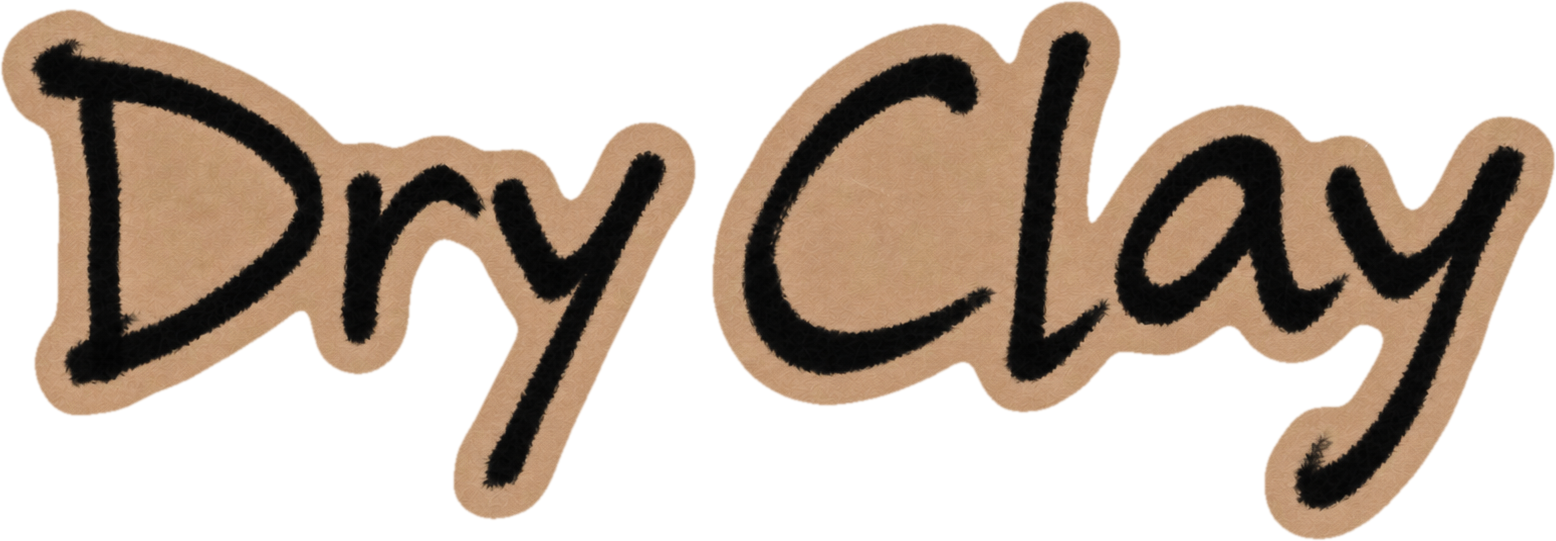
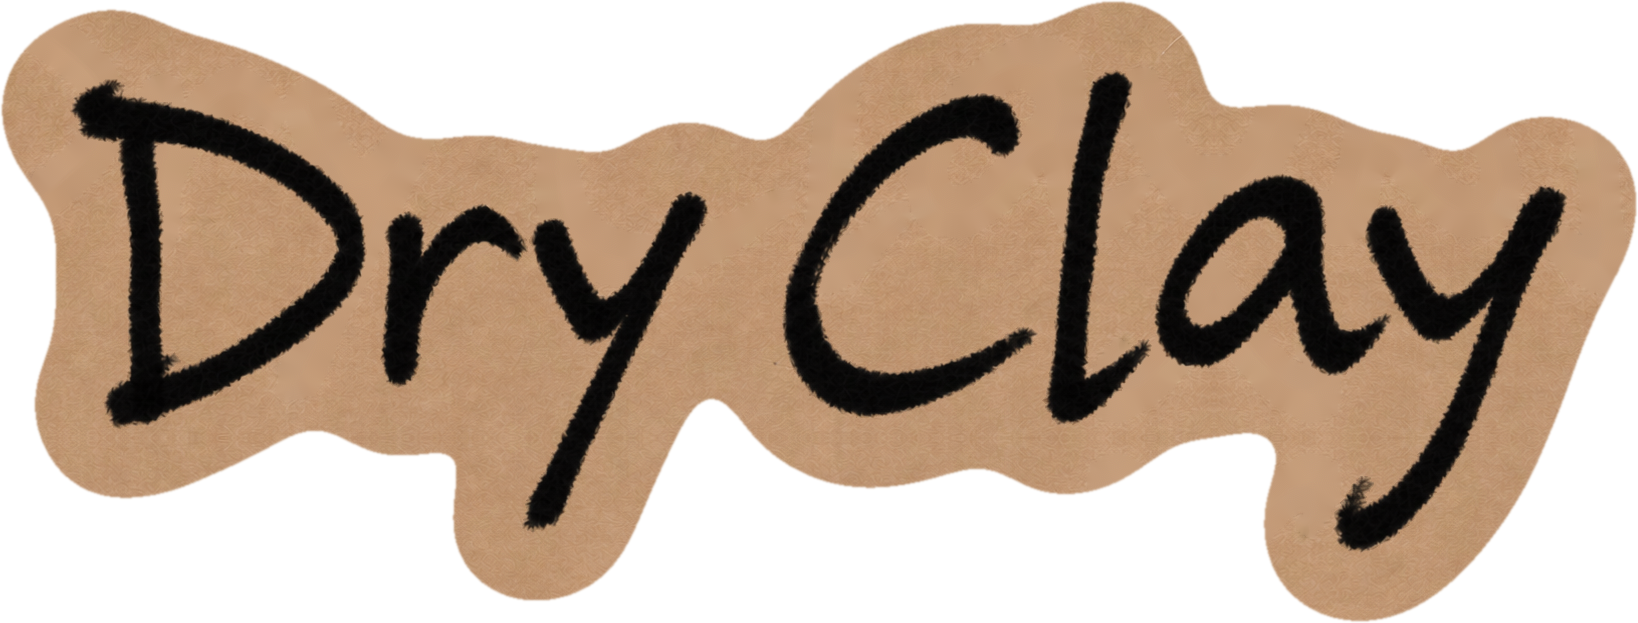
Thicker backing on R1 rank lettering

diff --git a/Dev/BBGLDev.js b/Dev/BBGLDev.js
@@ -18235,7 +18235,7 @@ const RANK_EMBLEM_SIZE = {
     'T3R6-Fully-Bricked': [500, 294]
 };
 const RANK_TEXT_SIZE = {
-    'T1R1-Dry-Clay': [186, 70], 'T2R1-Parched-Clay': [209, 62], 'T3R1-Cracked-Clay': [253, 72],
+    'T1R1-Dry-Clay': [195, 79], 'T2R1-Parched-Clay': [217, 70], 'T3R1-Cracked-Clay': [263, 82],
     'T1R2-Moistened-Clay': [208, 101], 'T2R2-Saturated-Clay': [202, 100], 'T3R2-Dripping-Wet-Clay': [188, 99],
     'T1R3-Hand-Stroked-Clay': [312, 110], 'T2R3-Foot-Pumped-Clay': [311, 112], 'T3R3-Vacuum-Sucked-Clay': [340, 112],
     'T1R4-Pit-Fired-Clay': [149, 100], 'T2R4-Scove-Fired-Clay': [197, 100], 'T3R4-Kiln-Fired-Clay': [152, 98],

diff --git a/Dev/src/06-section-v-logic.js b/Dev/src/06-section-v-logic.js
@@ -2222,7 +2222,7 @@ const RANK_EMBLEM_SIZE = {
     'T3R6-Fully-Bricked': [500, 294]
 };
 const RANK_TEXT_SIZE = {
-    'T1R1-Dry-Clay': [186, 70], 'T2R1-Parched-Clay': [209, 62], 'T3R1-Cracked-Clay': [253, 72],
+    'T1R1-Dry-Clay': [195, 79], 'T2R1-Parched-Clay': [217, 70], 'T3R1-Cracked-Clay': [263, 82],
     'T1R2-Moistened-Clay': [208, 101], 'T2R2-Saturated-Clay': [202, 100], 'T3R2-Dripping-Wet-Clay': [188, 99],
     'T1R3-Hand-Stroked-Clay': [312, 110], 'T2R3-Foot-Pumped-Clay': [311, 112], 'T3R3-Vacuum-Sucked-Clay': [340, 112],
     'T1R4-Pit-Fired-Clay': [149, 100], 'T2R4-Scove-Fired-Clay': [197, 100], 'T3R4-Kiln-Fired-Clay': [152, 98],
